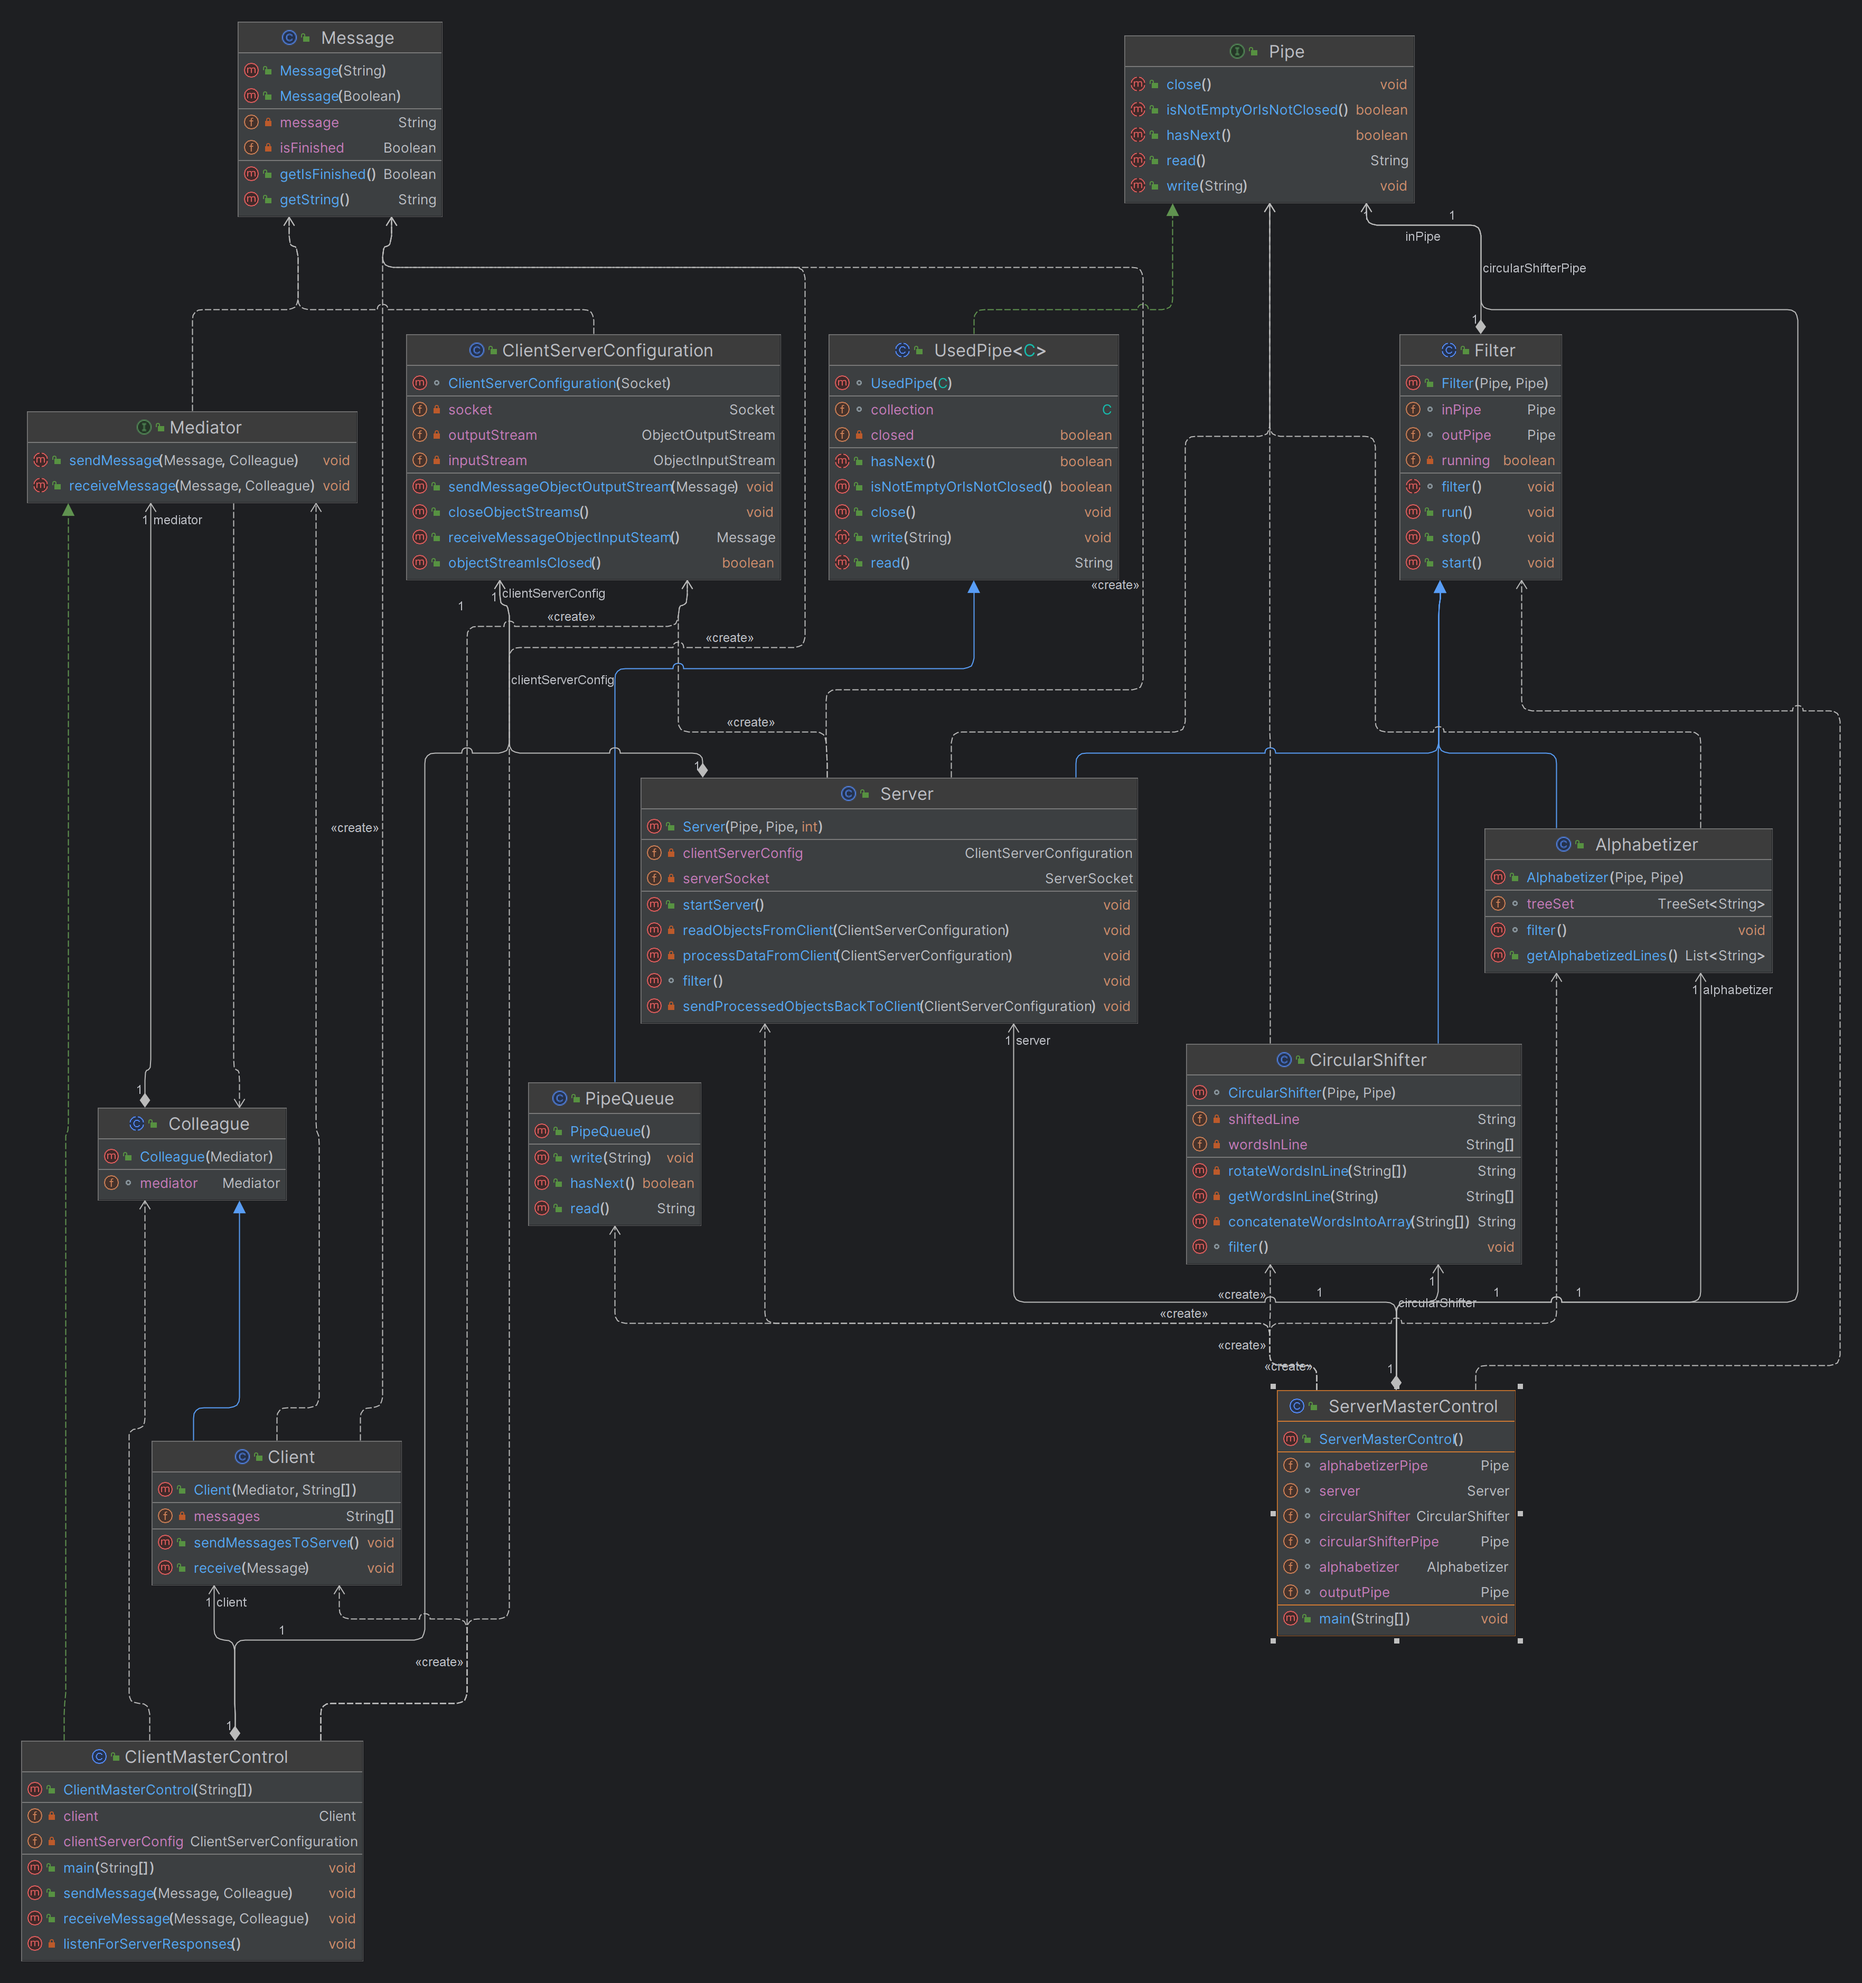
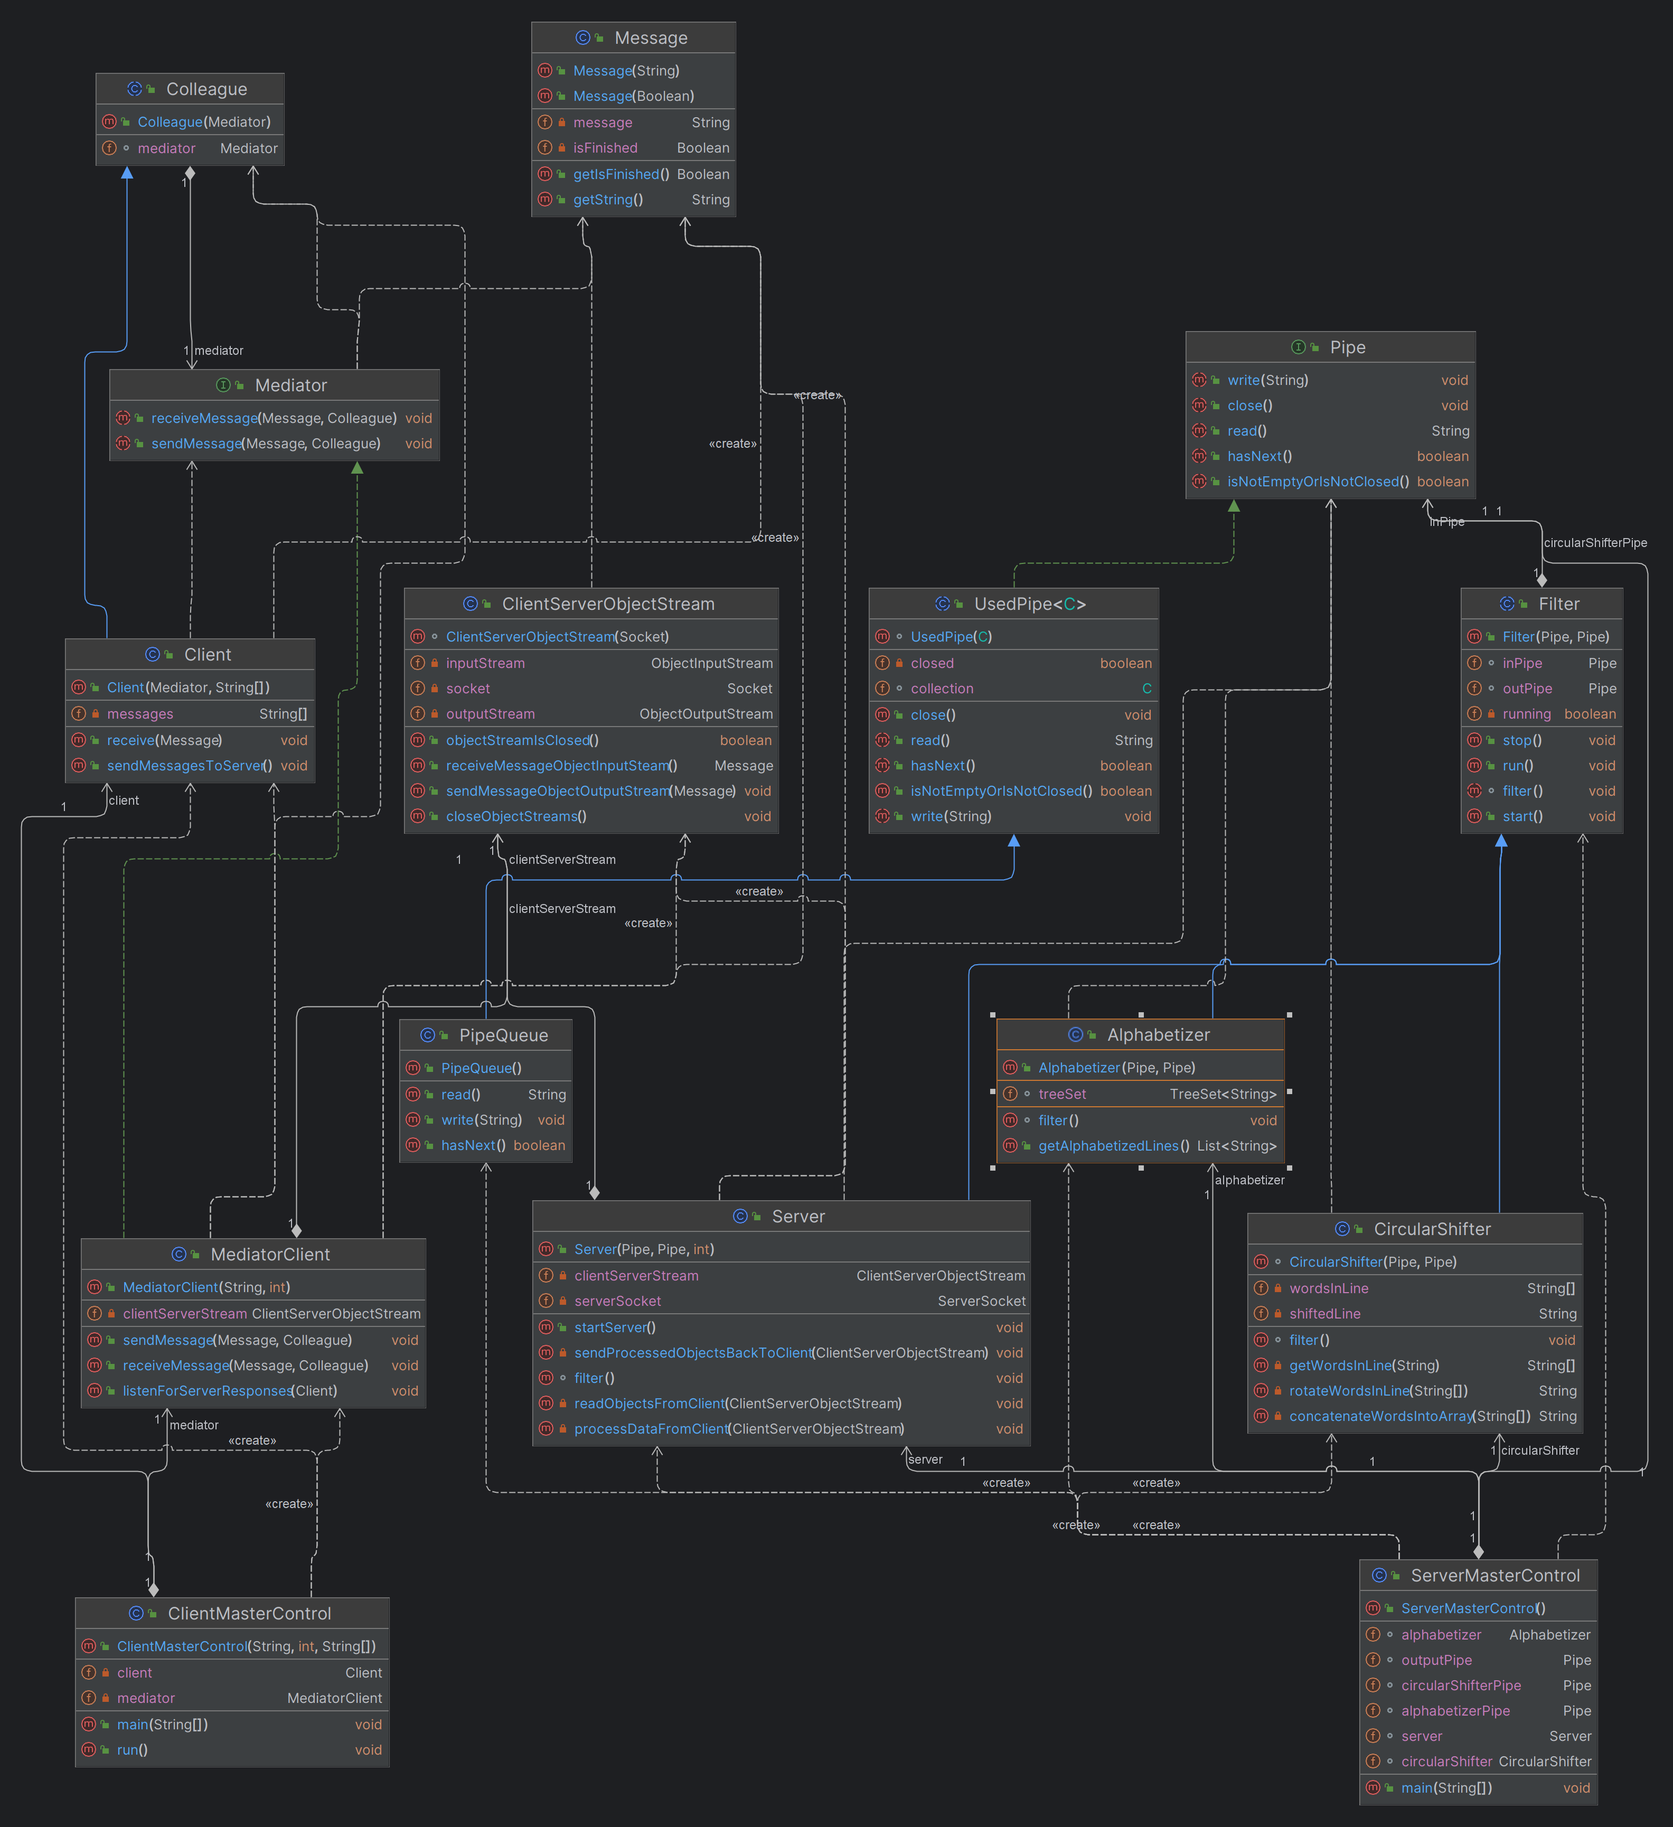
refactor some wording

diff --git a/src/MediatorClient.java b/src/MediatorClient.java
@@ -11,24 +11,25 @@ public class MediatorClient implements Mediator {
 	}
 
 	@Override
-	public void sendMessage(Message message, Colleague colleague) throws IOException {
+	public void sendOriginalClientMessageToServer(Message message, Colleague colleague) throws IOException {
 		clientServerStream.sendMessageObjectOutputStream(message);
 	}
 
 	@Override
-	public void receiveMessage(Message message, Colleague colleague) {
-		((Client) colleague).receive(message);
+	public void receiveProcessedMessageAndPassToClient(Message message, Colleague colleague) {
+		((Client) colleague).receiveProcessedMessageBackFromServer(message);
 	}
 
+	@Override
 	public void listenForServerResponses(Client client) {
 		try {
 			while (!clientServerStream.objectStreamIsClosed()) {
 				Message message = clientServerStream.receiveMessageObjectInputSteam();
 				if (message.getIsFinished()) {
-					receiveMessage(new Message(true), client);
+					receiveProcessedMessageAndPassToClient(new Message(true), client);
 					break;
 				}
-				receiveMessage(message, client);
+				receiveProcessedMessageAndPassToClient(message, client);
 			}
 		} catch (EOFException ignored) {
 

diff --git a/src/Client.java b/src/Client.java
@@ -11,13 +11,13 @@ public class Client extends Colleague {
 
 	public void sendMessagesToServer() throws IOException {
 		for (String line : messages) {
-			mediator.sendMessage(new Message(line), this);
+			mediator.sendOriginalClientMessageToServer(new Message(line), this);
 		}
-		mediator.sendMessage(new Message(true), this);
+		mediator.sendOriginalClientMessageToServer(new Message(true), this);
 	}
 
-	// get message back from mediator and sys out
-	public void receive(Message message) {
+	// clients get message back from mediator and sys' out
+	public void receiveProcessedMessageBackFromServer(Message message) {
 		if (!message.getIsFinished()) {
 			System.out.println(message.getString());
 		}

diff --git a/src/Mediator.java b/src/Mediator.java
@@ -1,7 +1,9 @@
 import java.io.IOException;
 
 public interface Mediator {
-	void sendMessage(Message message, Colleague colleague) throws IOException;
+	void sendOriginalClientMessageToServer(Message message, Colleague colleague) throws IOException;
 
-	void receiveMessage(Message message, Colleague colleague);
+	void receiveProcessedMessageAndPassToClient(Message message, Colleague colleague);
+
+	void listenForServerResponses(Client client);
 }
